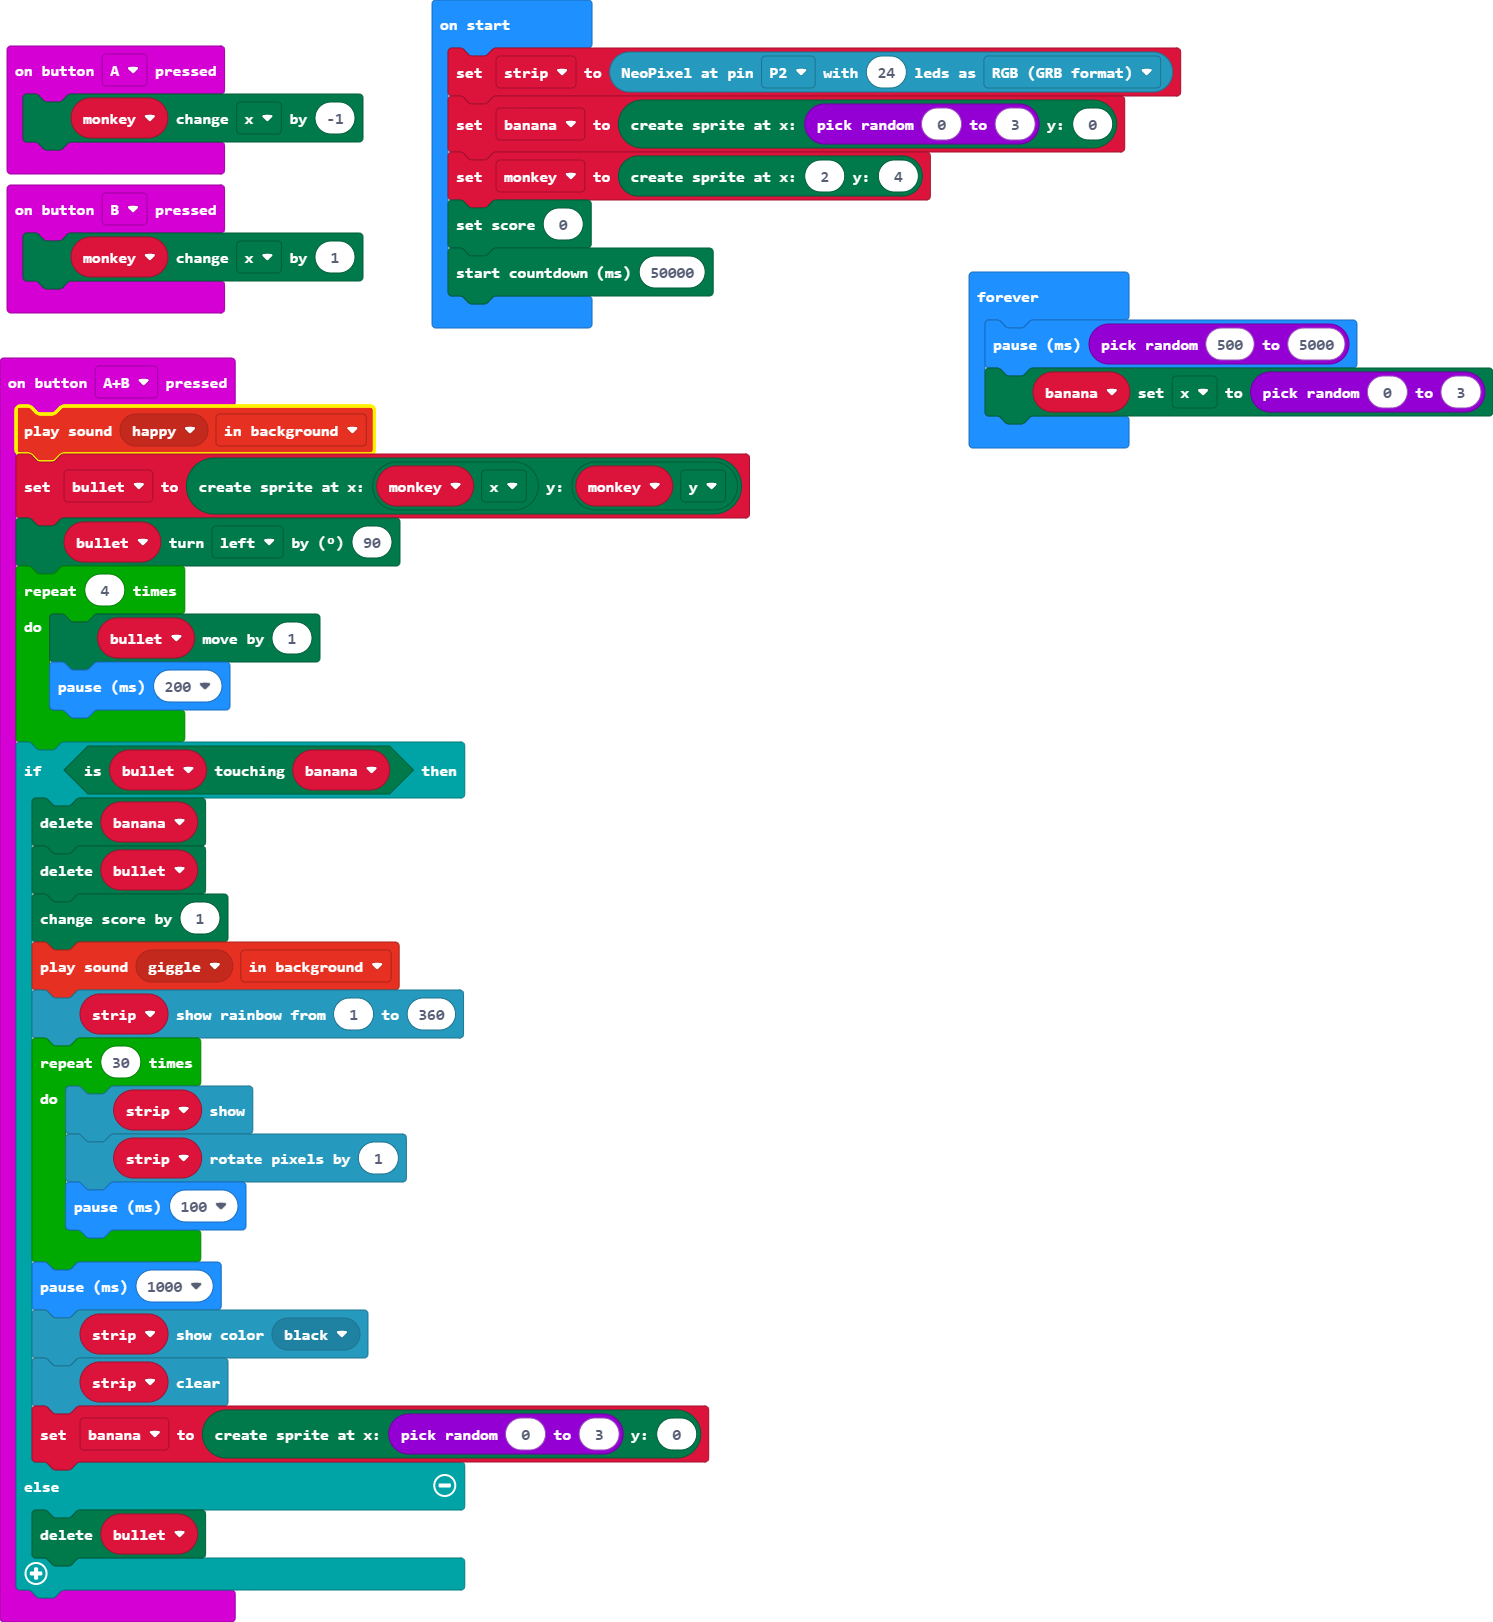
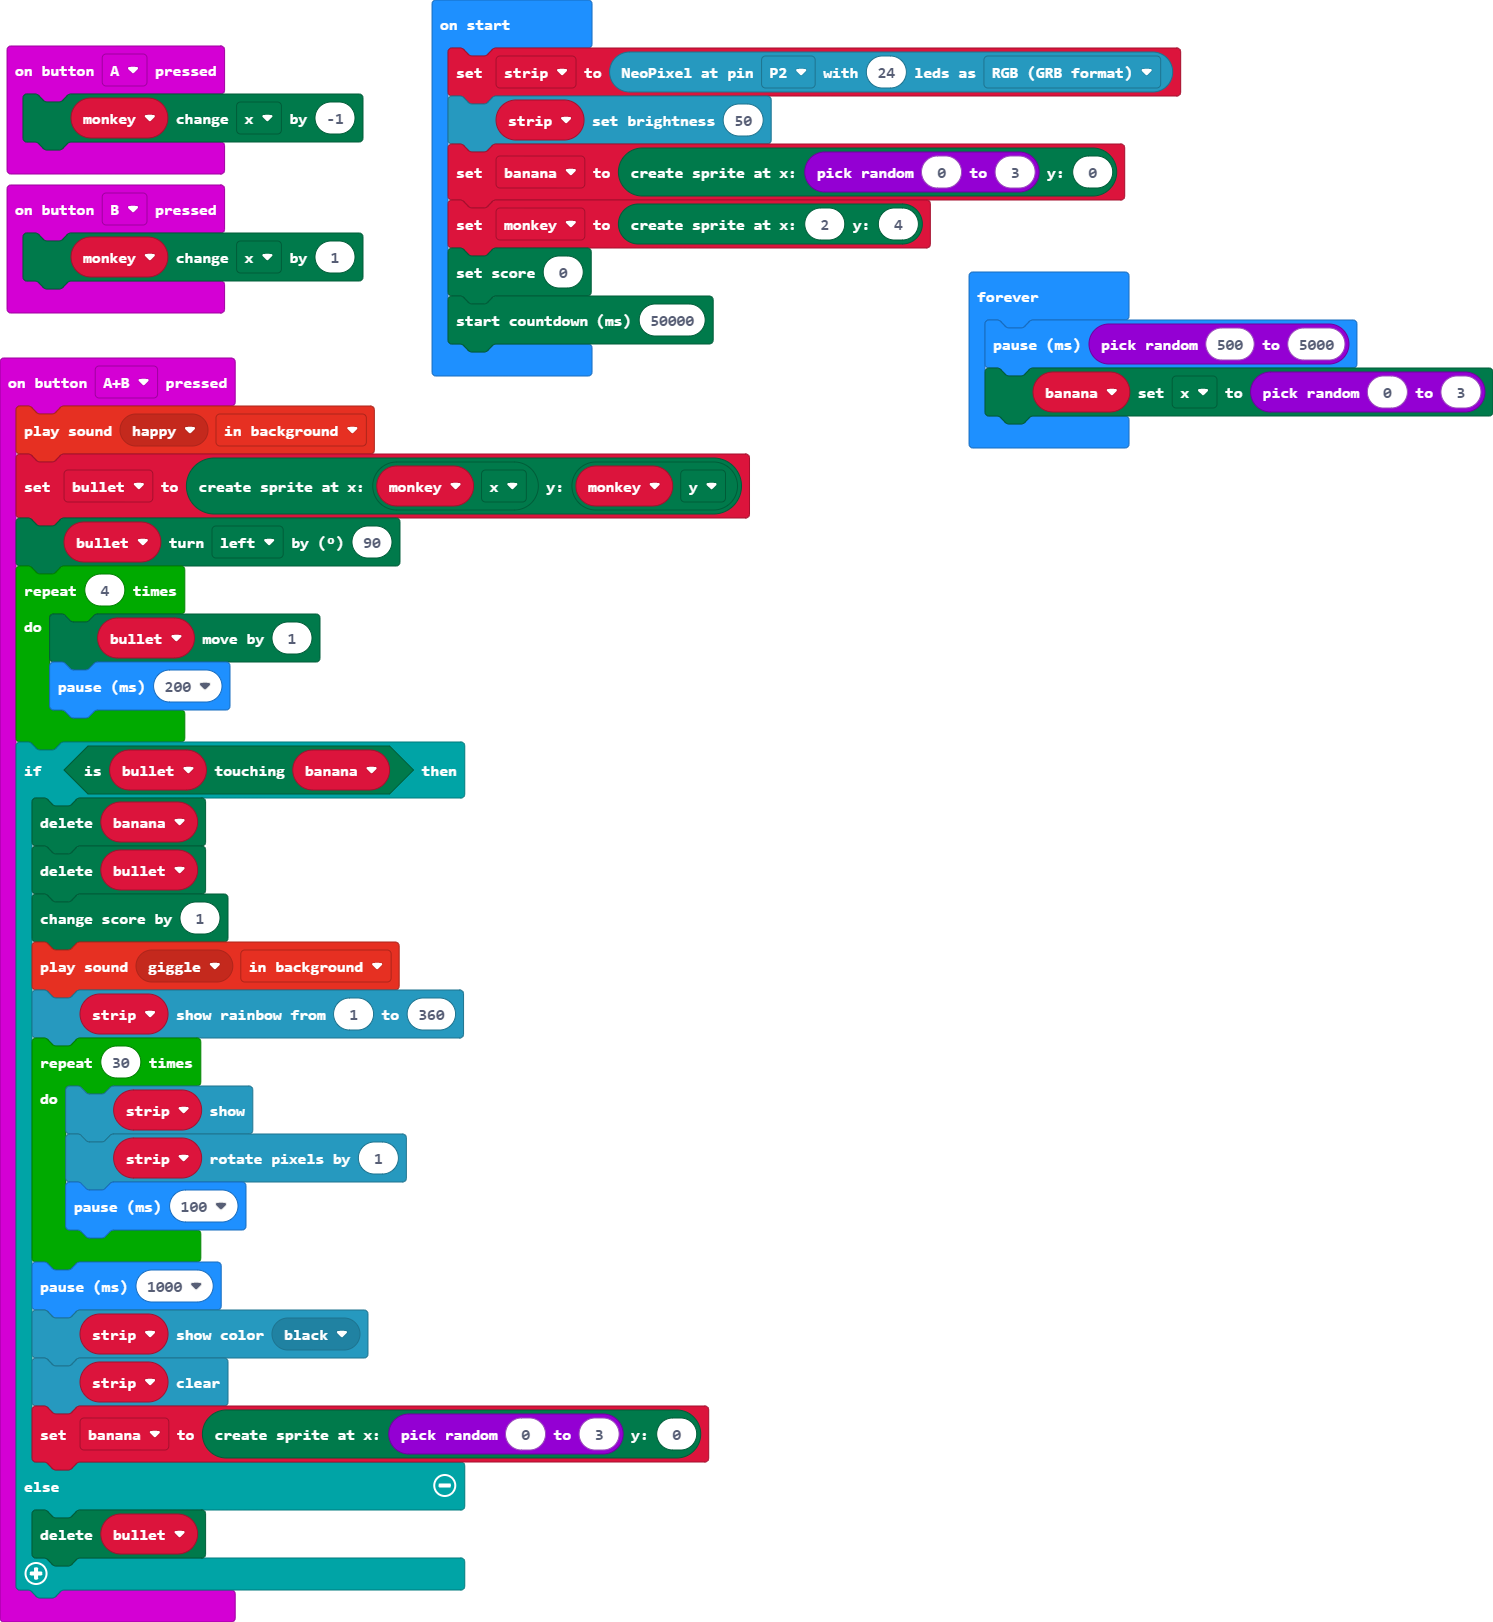
change brightness to 50

Changed region(s): [[0.2773, 0.0617, 0.7703, 0.2466], [0.0, 0.2466, 0.0308, 0.2774]]

diff --git a/main.ts b/main.ts
@@ -36,6 +36,7 @@ let monkey: game.LedSprite = null
 let banana: game.LedSprite = null
 let strip: neopixel.Strip = null
 strip = neopixel.create(DigitalPin.P2, 24, NeoPixelMode.RGB)
+strip.setBrightness(50)
 banana = game.createSprite(randint(0, 3), 0)
 monkey = game.createSprite(2, 4)
 game.setScore(0)
